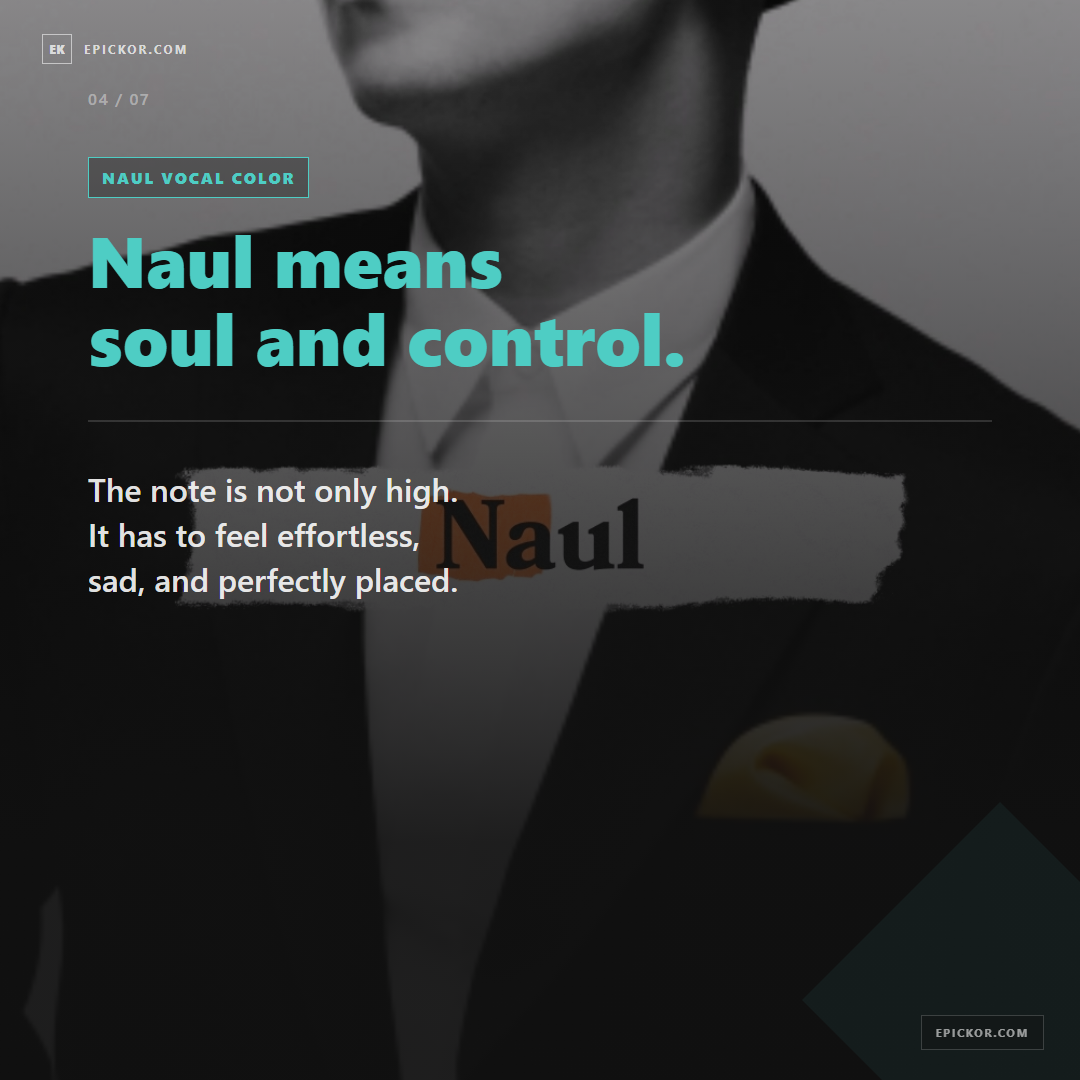
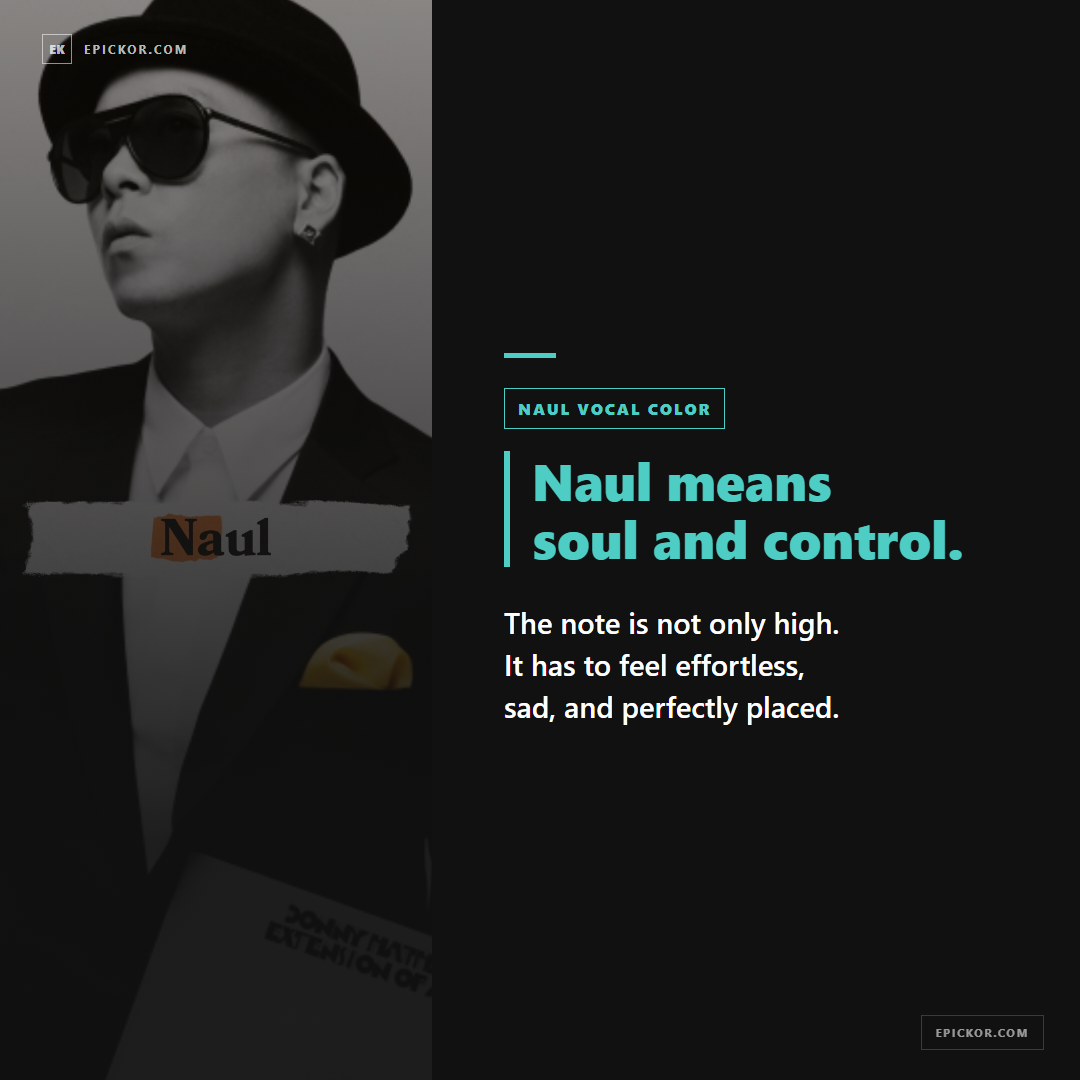
Polish noraebang singer card layouts

diff --git a/.claude/skills/cardnews/scripts/html-to-png.py b/.claude/skills/cardnews/scripts/html-to-png.py
@@ -344,6 +344,54 @@ def build_type_c(card):
   {WATERMARK_HTML}'''
 
 
+def build_type_e(card):
+    pc = point_color(card)
+    main = to_html_text(card['main_text'])
+    sub = to_html_text(card['sub_text'])
+    img = resolve_image_src(card)
+    kicker = kicker_html(card, pc)
+    visual = image_layer_full(img, card, '0.56') if img else f'''
+      <div style="
+        position:absolute;top:50%;left:50%;transform:translate(-50%,-50%);
+        width:180px;height:180px;border-radius:50%;
+        border:1px solid {pc};opacity:0.4;
+      "></div>
+      <div style="
+        position:absolute;top:30%;left:20%;
+        width:3px;height:200px;background:{pc};opacity:0.3;transform:rotate(20deg);
+      "></div>
+    '''
+
+    return f'''
+  <div style="display:flex;width:1080px;height:1080px;">
+    <div style="
+      width:432px;height:1080px;position:relative;overflow:hidden;
+      background:linear-gradient(180deg,#1a1200 0%,#0d0d0d 100%);
+    ">
+      {visual}
+    </div>
+
+    <div style="
+      width:648px;height:1080px;background:#111111;
+      padding:86px 72px;
+      display:flex;flex-direction:column;justify-content:center;
+    ">
+      <div style="width:52px;height:5px;background:{pc};margin-bottom:30px;"></div>
+      {kicker}
+      <div style="
+        font-size:52px;font-weight:900;color:{pc};
+        line-height:1.12;
+        border-left:6px solid {pc};padding-left:22px;margin-bottom:34px;
+      ">{main}</div>
+      <div style="
+        font-size:29px;font-weight:500;color:#FFFFFF;
+        line-height:1.45;word-break:keep-all;
+      ">{sub}</div>
+    </div>
+  </div>
+  {WATERMARK_HTML}'''
+
+
 def build_type_d(card, total):
     pc = point_color(card)
     main = to_html_text(card['main_text'])
@@ -391,6 +439,8 @@ def build_card_html(card, total):
         body = build_type_b(card)
     elif layout == 'C':
         body = build_type_c(card)
+    elif layout == 'E':
+        body = build_type_e(card)
     elif layout == 'D':
         body = build_type_d(card, total)
     else:

diff --git a/public/assets/cardnews/003/script.md b/public/assets/cardnews/003/script.md
@@ -10,9 +10,9 @@ point_color: Gold
 image_keyword: Korean karaoke singer legend
 kicker: KOREAN NORAEBANG CULTURE
 image: /assets/images/posts/003/d1adafad-ab6e-4a7e-8bb1-d10d6d036429.png
-image_opacity: 0.48
-image_zoom: 1.02
-image_position: left center
+image_opacity: 0.42
+image_zoom: 1.00
+image_position: center center
 
 **Main:** Why Korean men\nsing like this\nat karaoke
 **Sub:** It is not just a song.\nIt is pressure, pride,\nand emotional release.
@@ -50,13 +50,13 @@ image_position: center center
 ---
 
 ## Card 04 - Naul
-layout: D
+layout: E
 point_color: Teal
 image_keyword: Naul Korean vocalist
 kicker: NAUL VOCAL COLOR
 image: /assets/images/posts/003/002_EpicKor_Snippets_%ED%9C%98%EC%88%98.mp4_20240703_143126.700.jpg
 image_opacity: 0.72
-image_zoom: 1.08
+image_zoom: 1.02
 image_position: center center
 
 **Main:** Naul means\nsoul and control.
@@ -71,8 +71,8 @@ image_keyword: Park Hyo-shin Korean vocalist
 kicker: PARK HYO-SHIN DEPTH
 image: /assets/images/posts/003/002_EpicKor_Snippets_%ED%9C%98%EC%88%98.mp4_20240703_143128.868.jpg
 image_opacity: 0.72
-image_zoom: 1.08
-image_position: center center
+image_zoom: 1.02
+image_position: left center
 
 **Main:** Park Hyo-shin\nbrings the weight.
 **Sub:** This is the ballad mood\nwhere one line can feel bigger\nthan the whole room.
@@ -80,13 +80,13 @@ image_position: center center
 ---
 
 ## Card 06 - Lee-su
-layout: B
+layout: E
 point_color: Teal
 image_keyword: Lee-su Korean vocalist
 kicker: LEE-SU HIGH NOTE
 image: /assets/images/posts/003/002_EpicKor_Snippets_%ED%9C%98%EC%88%98.mp4_20240703_143130.860.jpg
 image_opacity: 0.72
-image_zoom: 1.08
+image_zoom: 1.02
 image_position: center center
 
 **Main:** Lee-su is\nfor the brave.

diff --git a/HANDOFF.md b/HANDOFF.md
@@ -1,5 +1,23 @@
 # HANDOFF - EpicKor Agent Teams v2
 
+## Latest Update - 2026-05-03 Card News 003 Second Visual Correction
+
+- Task: Apply follow-up user review feedback to Card News 003.
+- User feedback:
+  - Card 01 should use the existing image as the four black-silhouette group visual.
+  - Card 03 is good and should remain the model.
+  - Cards 04-06 should avoid face-cropping by using the same side-vertical-image treatment as Card 03, with alternating image sides.
+- Corrections:
+  - Card 01 now uses the existing cover image with a centered crop and lower opacity so the four-silhouette composition reads more clearly behind the hook.
+  - Added renderer layout `E`, mirroring layout `C` with the vertical image panel on the left and text on the right.
+  - Cards 03-06 now alternate image side rhythm: right, left, right, left.
+  - Card 04 and Card 06 moved from full/top background treatments into the new left vertical image panel layout.
+  - Card 05 stays in the right vertical image panel layout and has image positioning adjusted toward the face.
+- Renderer/Reviewer role:
+  - `python .claude/skills/cardnews/scripts/html-to-png.py --slug 003` generated 7/7 PNGs.
+  - Copied updated rendered PNGs into `public/assets/cardnews/003/`.
+  - Ran global duplicate-image check across `public/assets/cardnews/*/script.md`: `NO_DUPLICATE_IMAGES`.
+
 ## Latest Update - 2026-05-03 Card News 003 Visual Correction
 
 - Task: Apply user review feedback to Card News 003 visuals.
